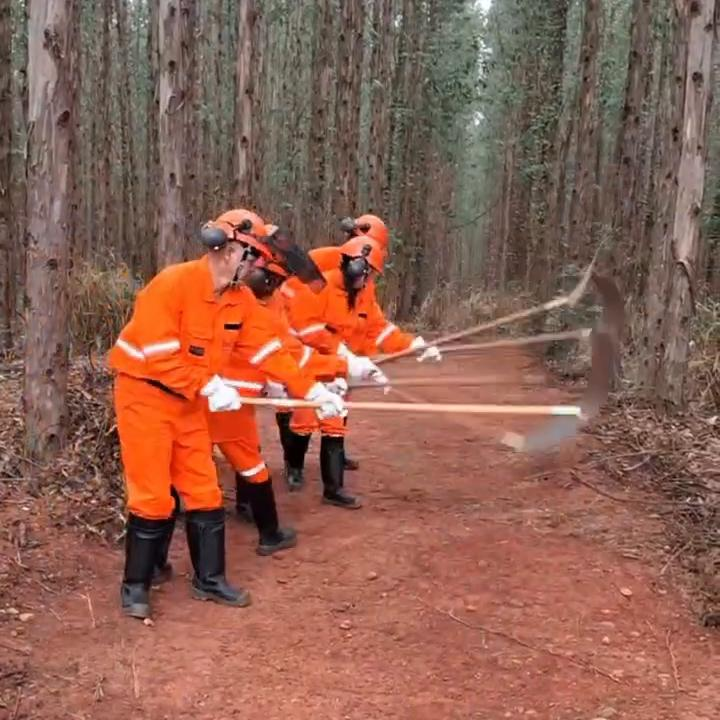
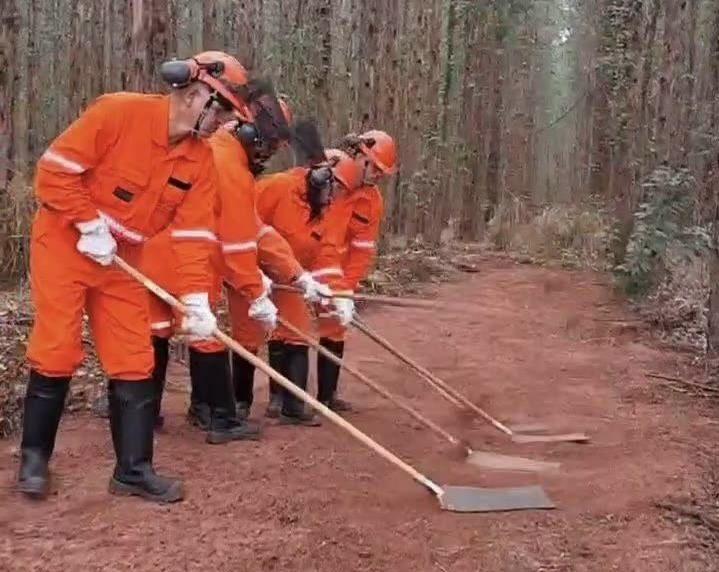
Foto enviada pelo cliente na seção Sobre
Moldura na proporção da foto (5:4) no celular e no computador, sem cortes.

Claude-Session: https://claude.ai/code/session_01ASr1VGzkdRAYEMjnnnFjBM

diff --git a/assets/css/style.css b/assets/css/style.css
@@ -327,7 +327,7 @@ body::before {
 /* Sobre */
 .about-grid { display: grid; gap: 32px; align-items: center; }
 .about-media { margin: 0; min-width: 0; }
-.about-photo { border-radius: 16px; overflow: hidden; aspect-ratio: 4 / 3; background: var(--bg-alt); }
+.about-photo { border-radius: 16px; overflow: hidden; aspect-ratio: 5 / 4; background: var(--bg-alt); }   /* proporção da foto */
 .about-photo img { width: 100%; height: 100%; object-fit: cover; object-position: center 50%; }
 .about-copy { min-width: 0; }
 .about-copy h2 { margin-bottom: 16px; }
@@ -340,7 +340,6 @@ body::before {
 
 @media (min-width: 900px) {
   .about-grid { grid-template-columns: minmax(0, .9fr) minmax(0, 1.1fr); gap: 64px; }
-  .about-photo { aspect-ratio: 1 / 1; }
   .mvv { grid-template-columns: repeat(3, minmax(0, 1fr)); gap: 40px; }
 }
 

diff --git a/index.html b/index.html
@@ -154,7 +154,7 @@
       <div class="about-grid">
         <figure class="about-media reveal">
           <div class="about-photo">
-            <img src="assets/img/sobre-brigada.jpg" alt="Brigadistas de macacão laranja construindo aceiro com ferramentas manuais em área de eucalipto" width="720" height="720" loading="lazy">
+            <img src="assets/img/sobre-brigada.jpg" alt="Brigadistas de macacão laranja e capacete construindo aceiro com ferramentas manuais em área de eucalipto" width="719" height="572" loading="lazy">
           </div>
           <figcaption><svg class="ico" aria-hidden="true"><use href="#i-flame"/></svg>Brigada florestal construindo aceiro em área de eucalipto</figcaption>
         </figure>
